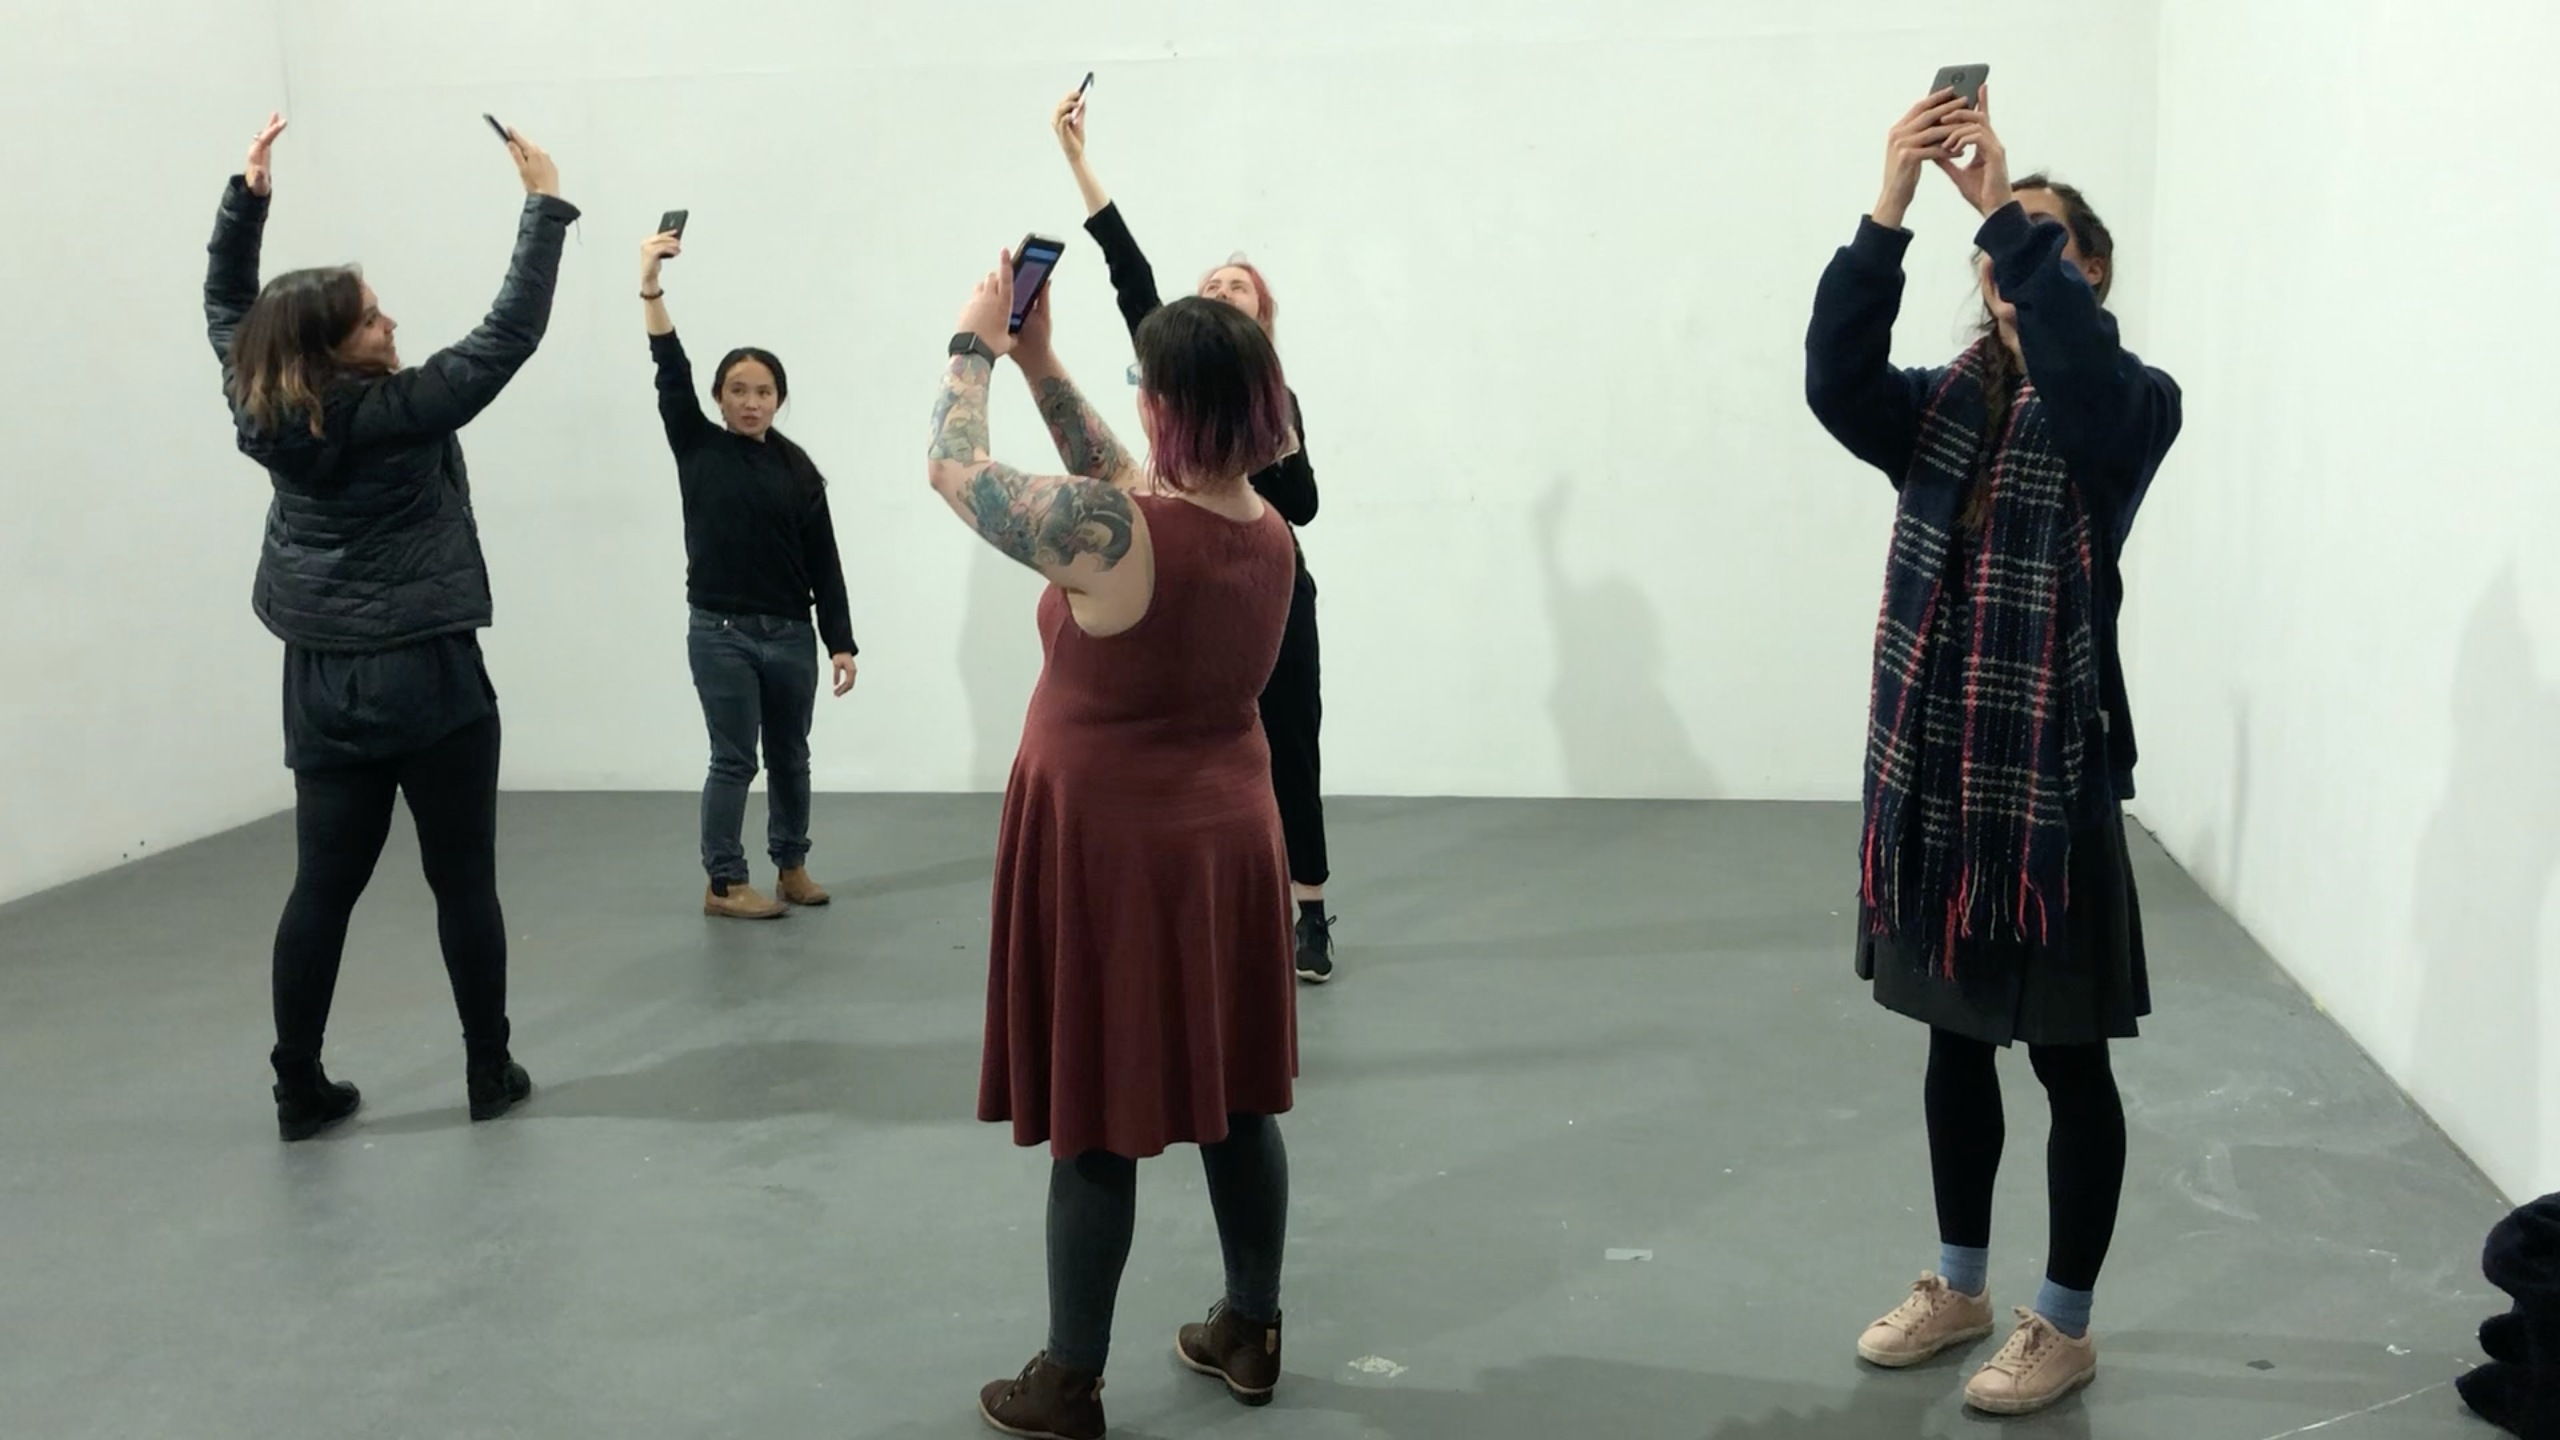
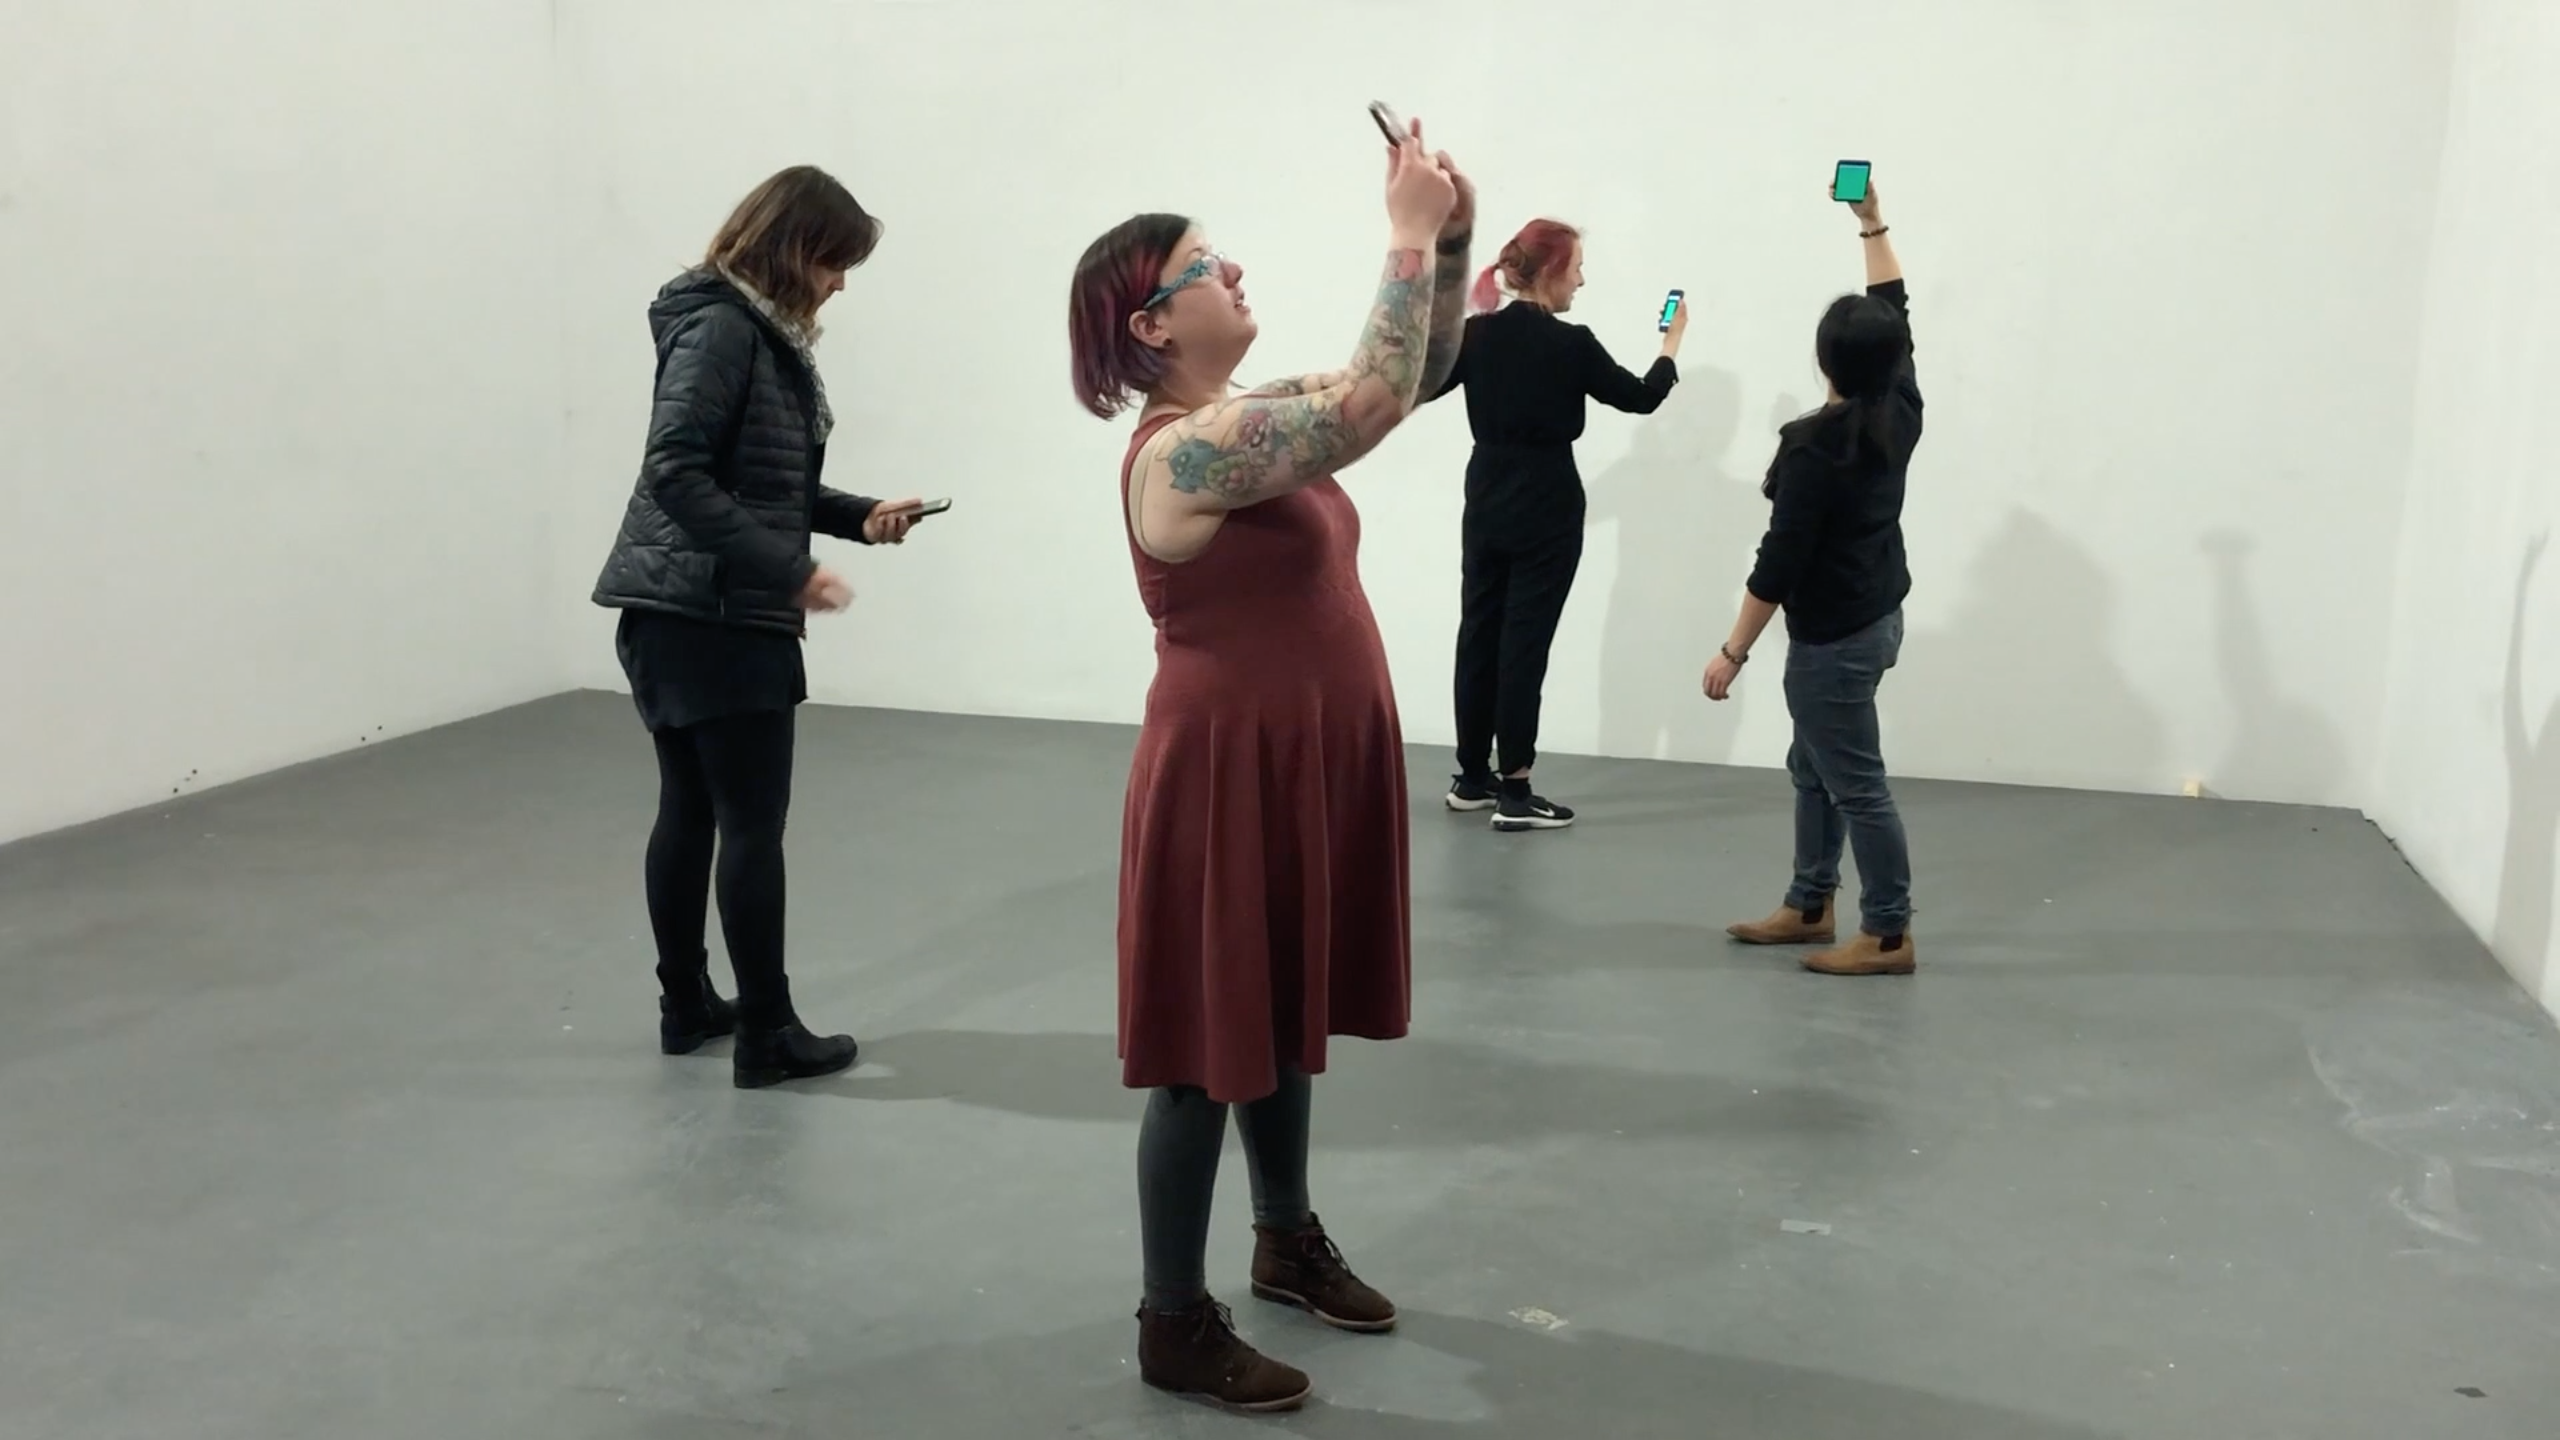
new photo

diff --git a/public/about/index.html b/public/about/index.html
@@ -43,6 +43,9 @@
     <br/>
     <br/>
     <img src="../photos/chromapose2.png" width="100%">
+    <br/>
+    <br/>
+    <img src="../photos/chromapose3.png" width="100%">
 
     <br/><br/>
 
